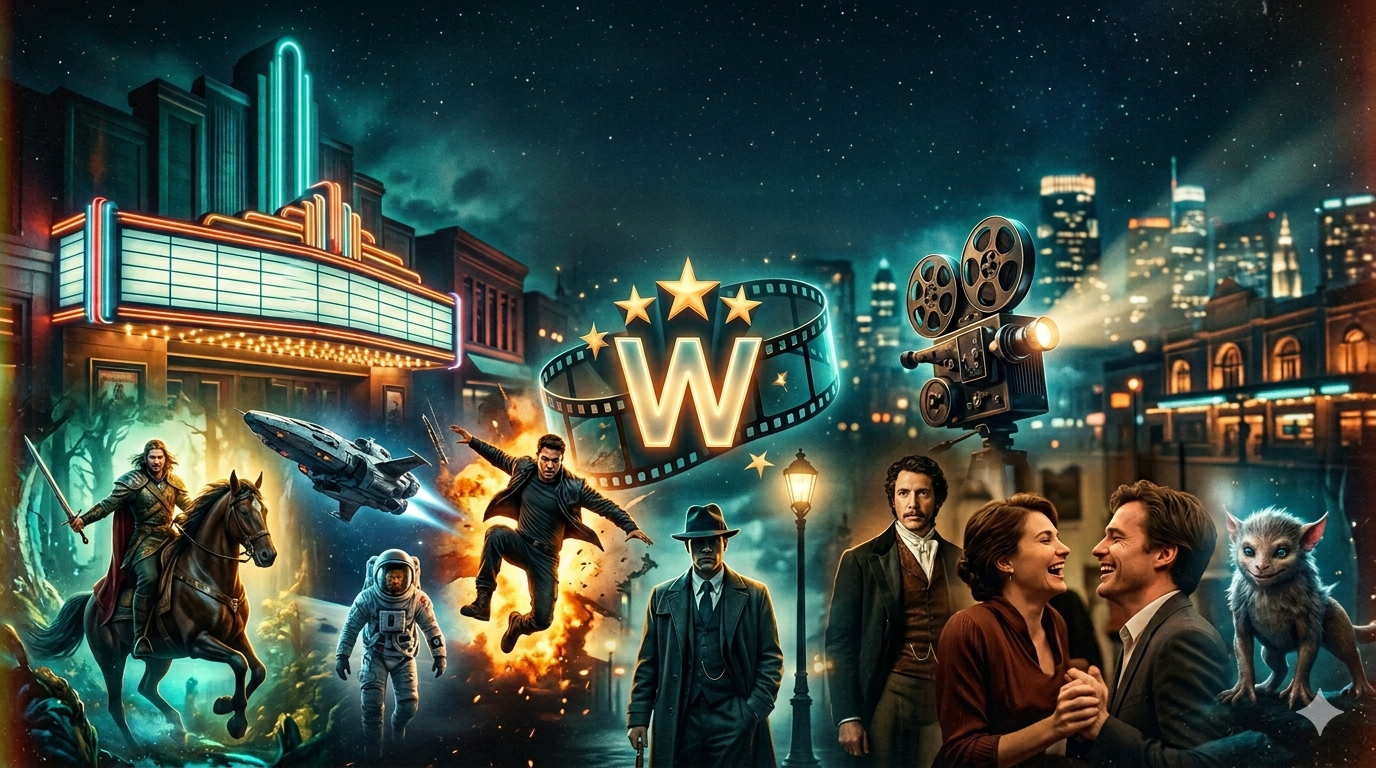
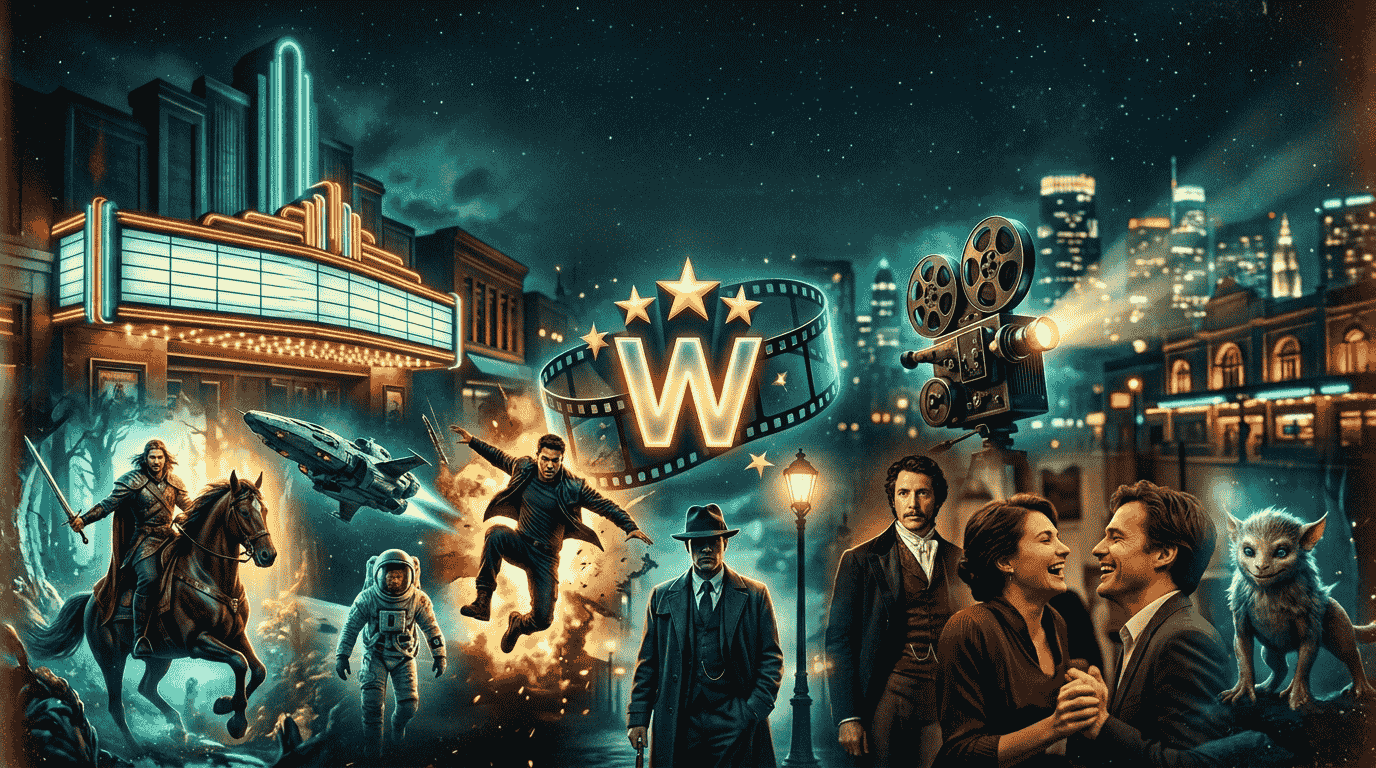
compress images, add responsiveness, limit pagination to 5

diff --git a/styles.css b/styles.css
@@ -19,8 +19,10 @@ header {
     display: flex;
 }
 
+
 header .header {
     display: flex;
+    /* flex-direction: column; */
     justify-content: space-between;
     align-items: center;
     width: 100%;    
@@ -30,6 +32,7 @@ header .header {
     margin: 0;
     font-size: 2.5rem;
     font-weight: 1000;
+    cursor: pointer;
 }
 
 .header .watchlist-btn {
@@ -239,9 +242,34 @@ main {
     #search-section {
         flex-direction: column;
         align-items: center;
+        gap: .4em;
     }
 
     #search-input {
         max-width: 100%;
     }
+
+    header {
+        display: flex;
+    }
+
+    header {
+        display: block;
+    }
+
+    header .header {
+    display: flex;
+    flex-direction: column;
+    justify-content: center;
+    align-items: center;
+    width: 100%;  
+    margin-top: 2em;
+    } 
+    .loading {
+        margin-top: 1.2em;
+    }
+
+    #results, #watchlist {
+    margin-top: 2.8rem;
+}
 }

diff --git a/index.js b/index.js
@@ -104,6 +104,7 @@ function displayResults(movies) {
 // Clear search results
 function clearResults() {
     resultsDiv.innerHTML = '';
+    paginationDiv.innerHTML = '';
 }
 
 // Add movie to watchlist
@@ -184,6 +185,9 @@ function createPagination(totalPages) {
     for (let i = 1; i <= totalPages; i++) {
         const activeClass = i === currentPage ? 'active' : '';
         paginationHTML += `<button class="pagination-btn ${activeClass}" onclick="goToPage(${i})">${i}</button>`;
+        if (i >= 5) { // Limit to 5 pages for better UX
+            break;
+        }
     }
     paginationDiv.innerHTML = paginationHTML;
 }

diff --git a/index.html b/index.html
@@ -9,7 +9,7 @@
 <body>
     <header>
         <div class="header">
-                <h1>My Movie Watchlist</h1>
+                <h1 onclick="clearResults()">My Movie Watchlist</h1>
                 <button id="view-watchlist-btn" class="watchlist-btn">View Watchlist</button>
         </div>
     </header>
